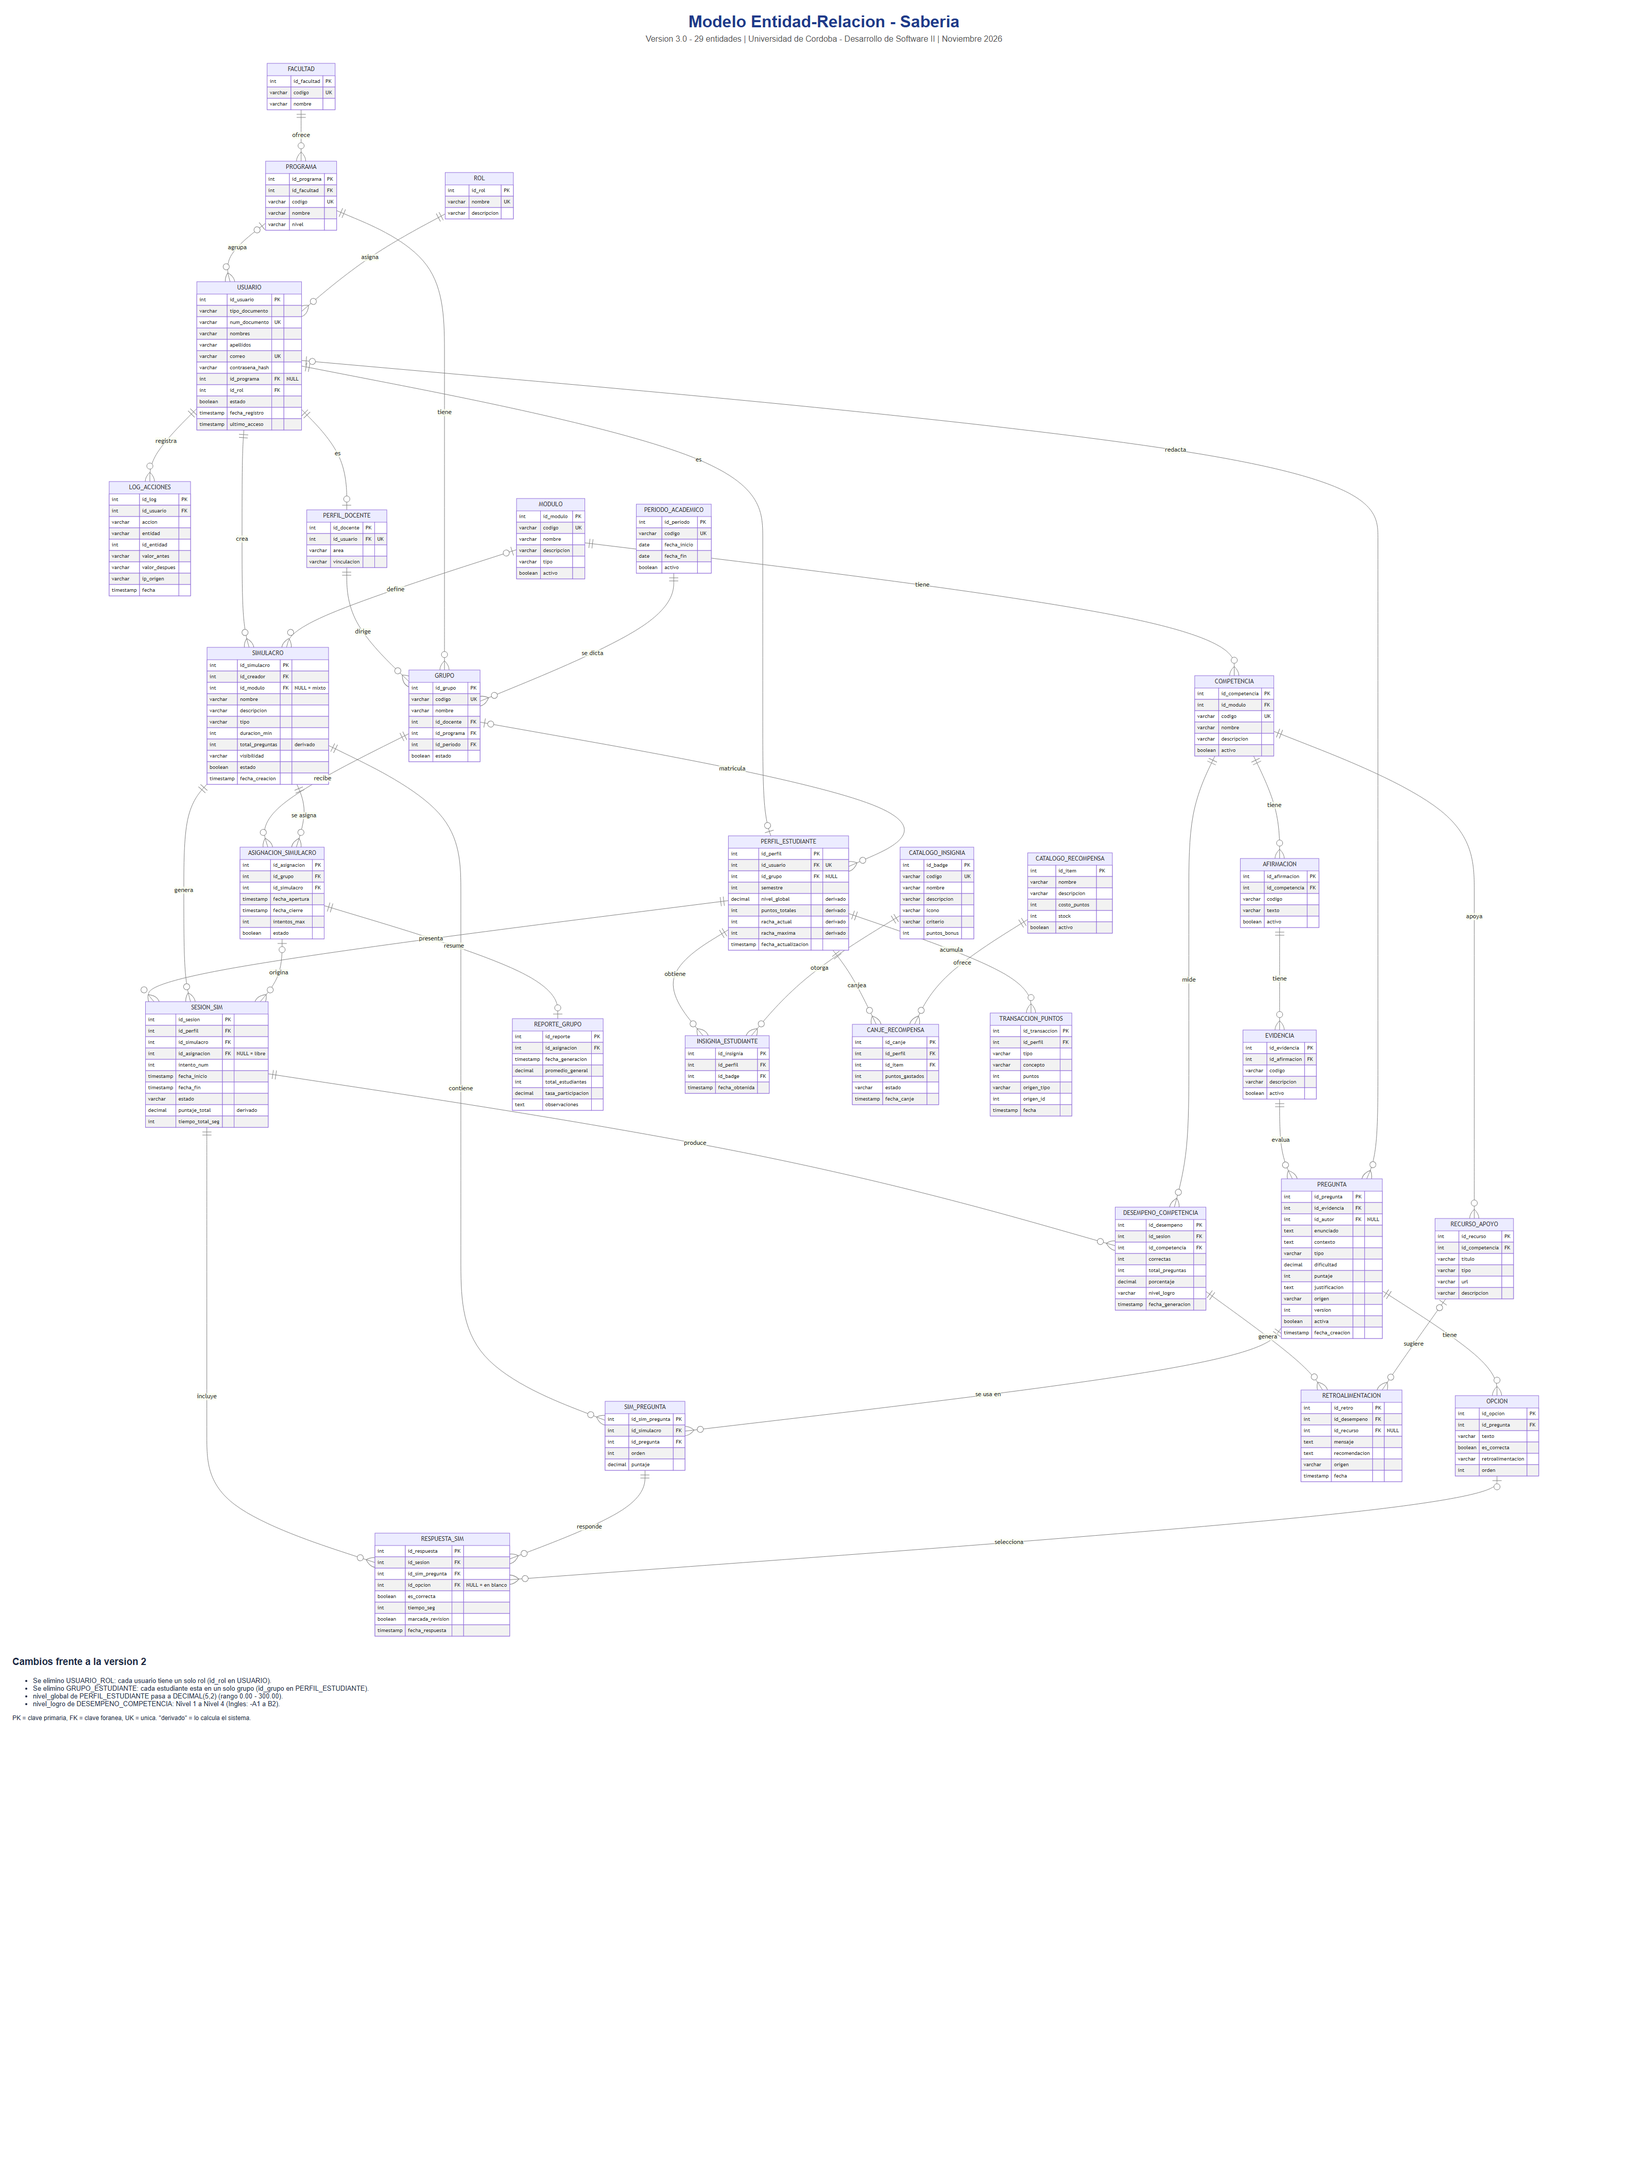
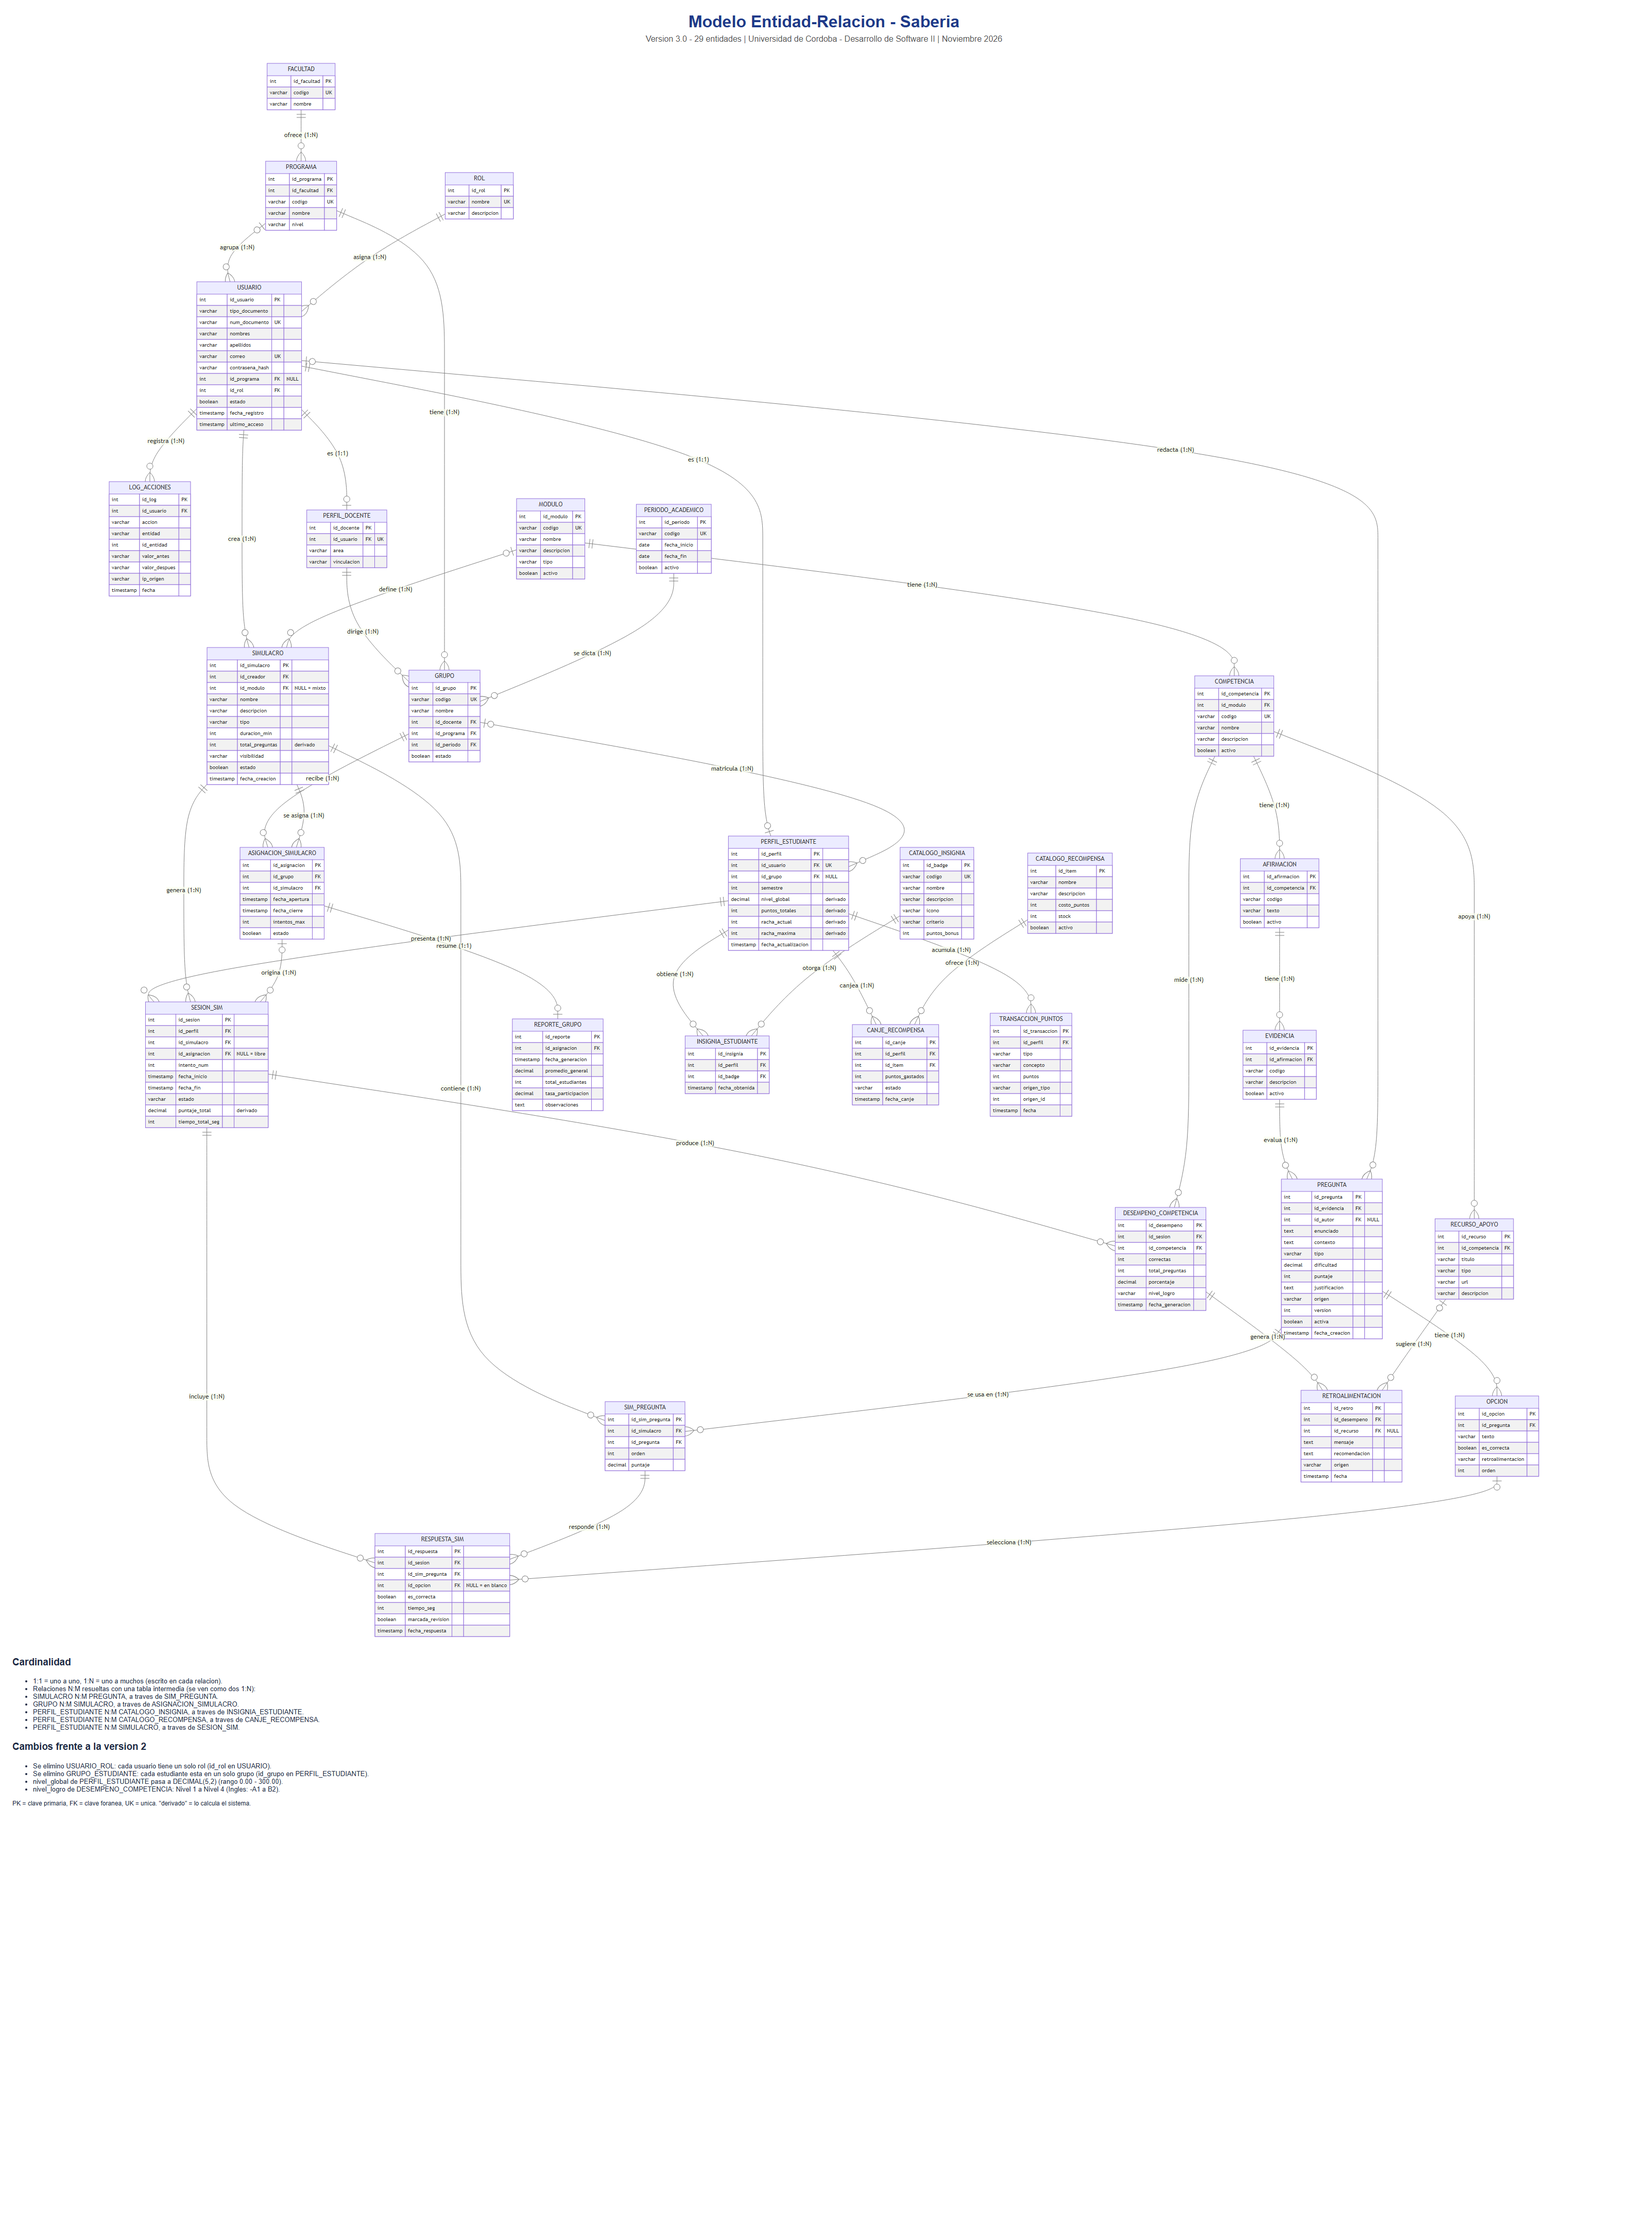
docs: cardinalidad en el diagrama entidad-relacion
Cada relacion muestra su cardinalidad (1:1 o 1:N) y la leyenda explica
las relaciones N:M resueltas con tablas intermedias.

diff --git a/docs/modelo-er.html b/docs/modelo-er.html
@@ -286,50 +286,48 @@ erDiagram
     }
 
     %% ===== Relaciones =====
-    FACULTAD ||--o{ PROGRAMA : ofrece
-    PROGRAMA |o--o{ USUARIO : agrupa
-    ROL ||--o{ USUARIO : asigna
-    USUARIO ||--o{ LOG_ACCIONES : registra
-    USUARIO ||--o| PERFIL_DOCENTE : es
-    USUARIO ||--o| PERFIL_ESTUDIANTE : es
-    PERFIL_DOCENTE ||--o{ GRUPO : dirige
-    PROGRAMA ||--o{ GRUPO : tiene
-    PERIODO_ACADEMICO ||--o{ GRUPO : "se dicta"
-    GRUPO |o--o{ PERFIL_ESTUDIANTE : matricula
-
-    MODULO ||--o{ COMPETENCIA : tiene
-    COMPETENCIA ||--o{ AFIRMACION : tiene
-    AFIRMACION ||--o{ EVIDENCIA : tiene
-    EVIDENCIA ||--o{ PREGUNTA : evalua
-    USUARIO |o--o{ PREGUNTA : redacta
-    PREGUNTA ||--o{ OPCION : tiene
-    COMPETENCIA ||--o{ RECURSO_APOYO : apoya
-
-    USUARIO ||--o{ SIMULACRO : crea
-    MODULO |o--o{ SIMULACRO : define
-    SIMULACRO ||--o{ SIM_PREGUNTA : contiene
-    PREGUNTA ||--o{ SIM_PREGUNTA : "se usa en"
-    GRUPO ||--o{ ASIGNACION_SIMULACRO : recibe
-    SIMULACRO ||--o{ ASIGNACION_SIMULACRO : "se asigna"
-    PERFIL_ESTUDIANTE ||--o{ SESION_SIM : presenta
-    SIMULACRO ||--o{ SESION_SIM : genera
-    ASIGNACION_SIMULACRO |o--o{ SESION_SIM : origina
-    SESION_SIM ||--o{ RESPUESTA_SIM : incluye
-    SIM_PREGUNTA ||--o{ RESPUESTA_SIM : responde
-    OPCION |o--o{ RESPUESTA_SIM : selecciona
-
-    ASIGNACION_SIMULACRO ||--o| REPORTE_GRUPO : resume
-    SESION_SIM ||--o{ DESEMPENO_COMPETENCIA : produce
-    COMPETENCIA ||--o{ DESEMPENO_COMPETENCIA : mide
-    DESEMPENO_COMPETENCIA ||--o{ RETROALIMENTACION : genera
-    RECURSO_APOYO |o--o{ RETROALIMENTACION : sugiere
-
-    PERFIL_ESTUDIANTE ||--o{ TRANSACCION_PUNTOS : acumula
-    PERFIL_ESTUDIANTE ||--o{ INSIGNIA_ESTUDIANTE : obtiene
-    CATALOGO_INSIGNIA ||--o{ INSIGNIA_ESTUDIANTE : otorga
-    PERFIL_ESTUDIANTE ||--o{ CANJE_RECOMPENSA : canjea
-    CATALOGO_RECOMPENSA ||--o{ CANJE_RECOMPENSA : ofrece
+    FACULTAD ||--o{ PROGRAMA : "ofrece (1:N)"
+    PROGRAMA |o--o{ USUARIO : "agrupa (1:N)"
+    ROL ||--o{ USUARIO : "asigna (1:N)"
+    USUARIO ||--o{ LOG_ACCIONES : "registra (1:N)"
+    USUARIO ||--o| PERFIL_DOCENTE : "es (1:1)"
+    USUARIO ||--o| PERFIL_ESTUDIANTE : "es (1:1)"
+    PERFIL_DOCENTE ||--o{ GRUPO : "dirige (1:N)"
+    PROGRAMA ||--o{ GRUPO : "tiene (1:N)"
+    PERIODO_ACADEMICO ||--o{ GRUPO : "se dicta (1:N)"
+    GRUPO |o--o{ PERFIL_ESTUDIANTE : "matricula (1:N)"
+    MODULO ||--o{ COMPETENCIA : "tiene (1:N)"
+    COMPETENCIA ||--o{ AFIRMACION : "tiene (1:N)"
+    AFIRMACION ||--o{ EVIDENCIA : "tiene (1:N)"
+    EVIDENCIA ||--o{ PREGUNTA : "evalua (1:N)"
+    USUARIO |o--o{ PREGUNTA : "redacta (1:N)"
+    PREGUNTA ||--o{ OPCION : "tiene (1:N)"
+    COMPETENCIA ||--o{ RECURSO_APOYO : "apoya (1:N)"
+    USUARIO ||--o{ SIMULACRO : "crea (1:N)"
+    MODULO |o--o{ SIMULACRO : "define (1:N)"
+    SIMULACRO ||--o{ SIM_PREGUNTA : "contiene (1:N)"
+    PREGUNTA ||--o{ SIM_PREGUNTA : "se usa en (1:N)"
+    GRUPO ||--o{ ASIGNACION_SIMULACRO : "recibe (1:N)"
+    SIMULACRO ||--o{ ASIGNACION_SIMULACRO : "se asigna (1:N)"
+    PERFIL_ESTUDIANTE ||--o{ SESION_SIM : "presenta (1:N)"
+    SIMULACRO ||--o{ SESION_SIM : "genera (1:N)"
+    ASIGNACION_SIMULACRO |o--o{ SESION_SIM : "origina (1:N)"
+    SESION_SIM ||--o{ RESPUESTA_SIM : "incluye (1:N)"
+    SIM_PREGUNTA ||--o{ RESPUESTA_SIM : "responde (1:N)"
+    OPCION |o--o{ RESPUESTA_SIM : "selecciona (1:N)"
+    ASIGNACION_SIMULACRO ||--o| REPORTE_GRUPO : "resume (1:1)"
+    SESION_SIM ||--o{ DESEMPENO_COMPETENCIA : "produce (1:N)"
+    COMPETENCIA ||--o{ DESEMPENO_COMPETENCIA : "mide (1:N)"
+    DESEMPENO_COMPETENCIA ||--o{ RETROALIMENTACION : "genera (1:N)"
+    RECURSO_APOYO |o--o{ RETROALIMENTACION : "sugiere (1:N)"
+    PERFIL_ESTUDIANTE ||--o{ TRANSACCION_PUNTOS : "acumula (1:N)"
+    PERFIL_ESTUDIANTE ||--o{ INSIGNIA_ESTUDIANTE : "obtiene (1:N)"
+    CATALOGO_INSIGNIA ||--o{ INSIGNIA_ESTUDIANTE : "otorga (1:N)"
+    PERFIL_ESTUDIANTE ||--o{ CANJE_RECOMPENSA : "canjea (1:N)"
+    CATALOGO_RECOMPENSA ||--o{ CANJE_RECOMPENSA : "ofrece (1:N)"
 </pre>
+<h3>Cardinalidad</h3>
+<ul><li>1:1 = uno a uno, 1:N = uno a muchos (escrito en cada relacion).</li><li>Relaciones N:M resueltas con una tabla intermedia (se ven como dos 1:N):</li><li>SIMULACRO N:M PREGUNTA, a traves de SIM_PREGUNTA.</li><li>GRUPO N:M SIMULACRO, a traves de ASIGNACION_SIMULACRO.</li><li>PERFIL_ESTUDIANTE N:M CATALOGO_INSIGNIA, a traves de INSIGNIA_ESTUDIANTE.</li><li>PERFIL_ESTUDIANTE N:M CATALOGO_RECOMPENSA, a traves de CANJE_RECOMPENSA.</li><li>PERFIL_ESTUDIANTE N:M SIMULACRO, a traves de SESION_SIM.</li></ul>
 <h3>Cambios frente a la version 2</h3>
 <ul><li>Se elimino USUARIO_ROL: cada usuario tiene un solo rol (id_rol en USUARIO).</li><li>Se elimino GRUPO_ESTUDIANTE: cada estudiante esta en un solo grupo (id_grupo en PERFIL_ESTUDIANTE).</li><li>nivel_global de PERFIL_ESTUDIANTE pasa a DECIMAL(5,2) (rango 0.00 - 300.00).</li><li>nivel_logro de DESEMPENO_COMPETENCIA: Nivel 1 a Nivel 4 (Ingles: -A1 a B2).</li></ul>
 <p style="font-size:12px">PK = clave primaria, FK = clave foranea, UK = unica. "derivado" = lo calcula el sistema.</p>

diff --git a/docs/modelo-er.md b/docs/modelo-er.md
@@ -273,50 +273,56 @@ erDiagram
     }
 
     %% ===== Relaciones =====
-    FACULTAD ||--o{ PROGRAMA : ofrece
-    PROGRAMA |o--o{ USUARIO : agrupa
-    ROL ||--o{ USUARIO : asigna
-    USUARIO ||--o{ LOG_ACCIONES : registra
-    USUARIO ||--o| PERFIL_DOCENTE : es
-    USUARIO ||--o| PERFIL_ESTUDIANTE : es
-    PERFIL_DOCENTE ||--o{ GRUPO : dirige
-    PROGRAMA ||--o{ GRUPO : tiene
-    PERIODO_ACADEMICO ||--o{ GRUPO : "se dicta"
-    GRUPO |o--o{ PERFIL_ESTUDIANTE : matricula
-
-    MODULO ||--o{ COMPETENCIA : tiene
-    COMPETENCIA ||--o{ AFIRMACION : tiene
-    AFIRMACION ||--o{ EVIDENCIA : tiene
-    EVIDENCIA ||--o{ PREGUNTA : evalua
-    USUARIO |o--o{ PREGUNTA : redacta
-    PREGUNTA ||--o{ OPCION : tiene
-    COMPETENCIA ||--o{ RECURSO_APOYO : apoya
-
-    USUARIO ||--o{ SIMULACRO : crea
-    MODULO |o--o{ SIMULACRO : define
-    SIMULACRO ||--o{ SIM_PREGUNTA : contiene
-    PREGUNTA ||--o{ SIM_PREGUNTA : "se usa en"
-    GRUPO ||--o{ ASIGNACION_SIMULACRO : recibe
-    SIMULACRO ||--o{ ASIGNACION_SIMULACRO : "se asigna"
-    PERFIL_ESTUDIANTE ||--o{ SESION_SIM : presenta
-    SIMULACRO ||--o{ SESION_SIM : genera
-    ASIGNACION_SIMULACRO |o--o{ SESION_SIM : origina
-    SESION_SIM ||--o{ RESPUESTA_SIM : incluye
-    SIM_PREGUNTA ||--o{ RESPUESTA_SIM : responde
-    OPCION |o--o{ RESPUESTA_SIM : selecciona
-
-    ASIGNACION_SIMULACRO ||--o| REPORTE_GRUPO : resume
-    SESION_SIM ||--o{ DESEMPENO_COMPETENCIA : produce
-    COMPETENCIA ||--o{ DESEMPENO_COMPETENCIA : mide
-    DESEMPENO_COMPETENCIA ||--o{ RETROALIMENTACION : genera
-    RECURSO_APOYO |o--o{ RETROALIMENTACION : sugiere
-
-    PERFIL_ESTUDIANTE ||--o{ TRANSACCION_PUNTOS : acumula
-    PERFIL_ESTUDIANTE ||--o{ INSIGNIA_ESTUDIANTE : obtiene
-    CATALOGO_INSIGNIA ||--o{ INSIGNIA_ESTUDIANTE : otorga
-    PERFIL_ESTUDIANTE ||--o{ CANJE_RECOMPENSA : canjea
-    CATALOGO_RECOMPENSA ||--o{ CANJE_RECOMPENSA : ofrece
+    FACULTAD ||--o{ PROGRAMA : "ofrece (1:N)"
+    PROGRAMA |o--o{ USUARIO : "agrupa (1:N)"
+    ROL ||--o{ USUARIO : "asigna (1:N)"
+    USUARIO ||--o{ LOG_ACCIONES : "registra (1:N)"
+    USUARIO ||--o| PERFIL_DOCENTE : "es (1:1)"
+    USUARIO ||--o| PERFIL_ESTUDIANTE : "es (1:1)"
+    PERFIL_DOCENTE ||--o{ GRUPO : "dirige (1:N)"
+    PROGRAMA ||--o{ GRUPO : "tiene (1:N)"
+    PERIODO_ACADEMICO ||--o{ GRUPO : "se dicta (1:N)"
+    GRUPO |o--o{ PERFIL_ESTUDIANTE : "matricula (1:N)"
+    MODULO ||--o{ COMPETENCIA : "tiene (1:N)"
+    COMPETENCIA ||--o{ AFIRMACION : "tiene (1:N)"
+    AFIRMACION ||--o{ EVIDENCIA : "tiene (1:N)"
+    EVIDENCIA ||--o{ PREGUNTA : "evalua (1:N)"
+    USUARIO |o--o{ PREGUNTA : "redacta (1:N)"
+    PREGUNTA ||--o{ OPCION : "tiene (1:N)"
+    COMPETENCIA ||--o{ RECURSO_APOYO : "apoya (1:N)"
+    USUARIO ||--o{ SIMULACRO : "crea (1:N)"
+    MODULO |o--o{ SIMULACRO : "define (1:N)"
+    SIMULACRO ||--o{ SIM_PREGUNTA : "contiene (1:N)"
+    PREGUNTA ||--o{ SIM_PREGUNTA : "se usa en (1:N)"
+    GRUPO ||--o{ ASIGNACION_SIMULACRO : "recibe (1:N)"
+    SIMULACRO ||--o{ ASIGNACION_SIMULACRO : "se asigna (1:N)"
+    PERFIL_ESTUDIANTE ||--o{ SESION_SIM : "presenta (1:N)"
+    SIMULACRO ||--o{ SESION_SIM : "genera (1:N)"
+    ASIGNACION_SIMULACRO |o--o{ SESION_SIM : "origina (1:N)"
+    SESION_SIM ||--o{ RESPUESTA_SIM : "incluye (1:N)"
+    SIM_PREGUNTA ||--o{ RESPUESTA_SIM : "responde (1:N)"
+    OPCION |o--o{ RESPUESTA_SIM : "selecciona (1:N)"
+    ASIGNACION_SIMULACRO ||--o| REPORTE_GRUPO : "resume (1:1)"
+    SESION_SIM ||--o{ DESEMPENO_COMPETENCIA : "produce (1:N)"
+    COMPETENCIA ||--o{ DESEMPENO_COMPETENCIA : "mide (1:N)"
+    DESEMPENO_COMPETENCIA ||--o{ RETROALIMENTACION : "genera (1:N)"
+    RECURSO_APOYO |o--o{ RETROALIMENTACION : "sugiere (1:N)"
+    PERFIL_ESTUDIANTE ||--o{ TRANSACCION_PUNTOS : "acumula (1:N)"
+    PERFIL_ESTUDIANTE ||--o{ INSIGNIA_ESTUDIANTE : "obtiene (1:N)"
+    CATALOGO_INSIGNIA ||--o{ INSIGNIA_ESTUDIANTE : "otorga (1:N)"
+    PERFIL_ESTUDIANTE ||--o{ CANJE_RECOMPENSA : "canjea (1:N)"
+    CATALOGO_RECOMPENSA ||--o{ CANJE_RECOMPENSA : "ofrece (1:N)"
 ```
+
+## Cardinalidad
+
+- 1:1 = uno a uno, 1:N = uno a muchos (escrito en cada relacion).
+- Relaciones N:M resueltas con una tabla intermedia (se ven como dos 1:N):
+- SIMULACRO N:M PREGUNTA, a traves de SIM_PREGUNTA.
+- GRUPO N:M SIMULACRO, a traves de ASIGNACION_SIMULACRO.
+- PERFIL_ESTUDIANTE N:M CATALOGO_INSIGNIA, a traves de INSIGNIA_ESTUDIANTE.
+- PERFIL_ESTUDIANTE N:M CATALOGO_RECOMPENSA, a traves de CANJE_RECOMPENSA.
+- PERFIL_ESTUDIANTE N:M SIMULACRO, a traves de SESION_SIM.
 
 ## Cambios frente a la version 2
 
